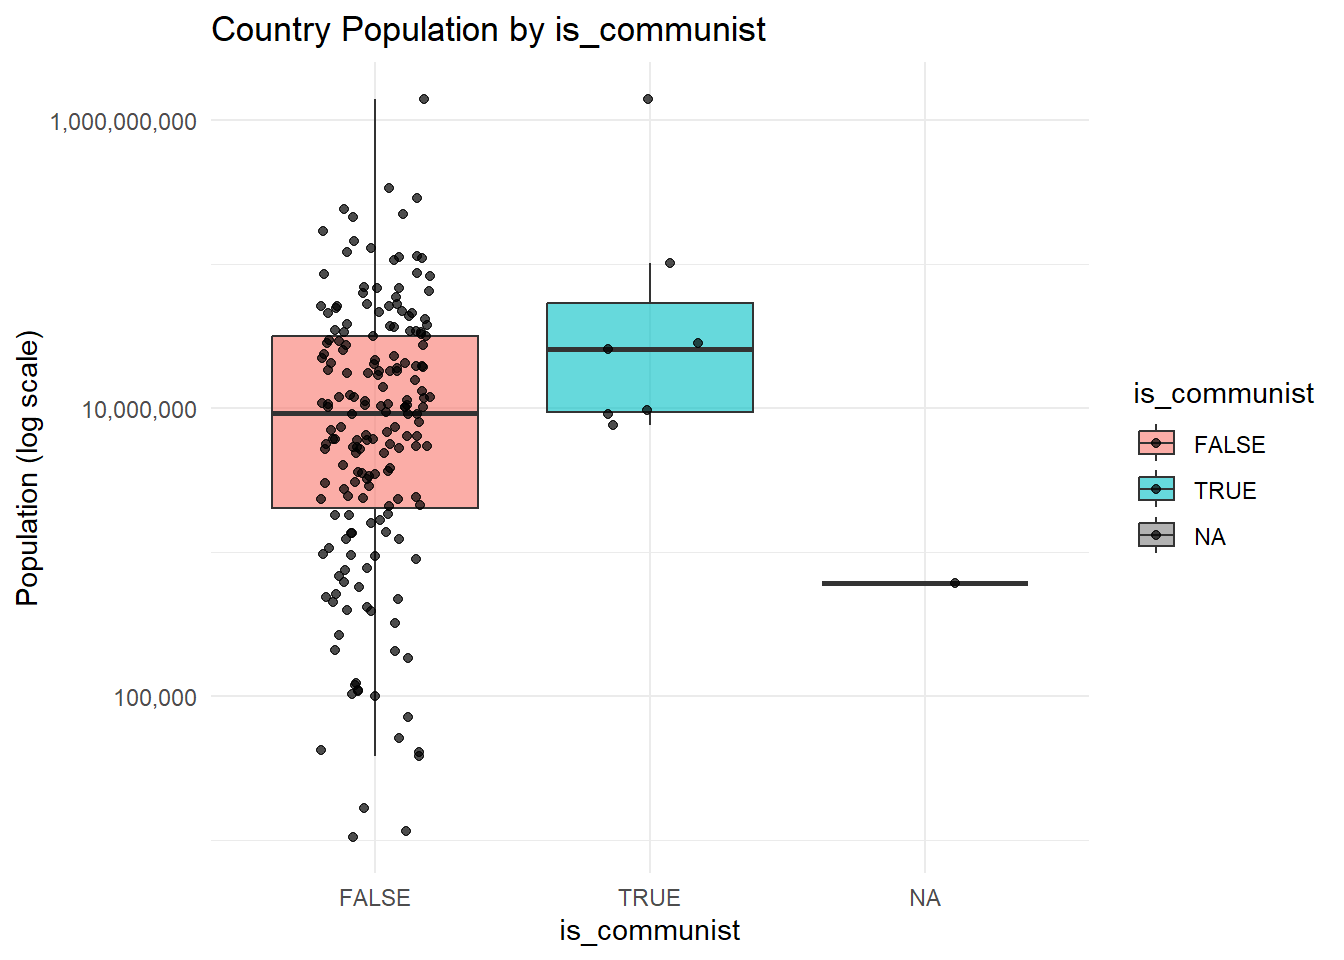
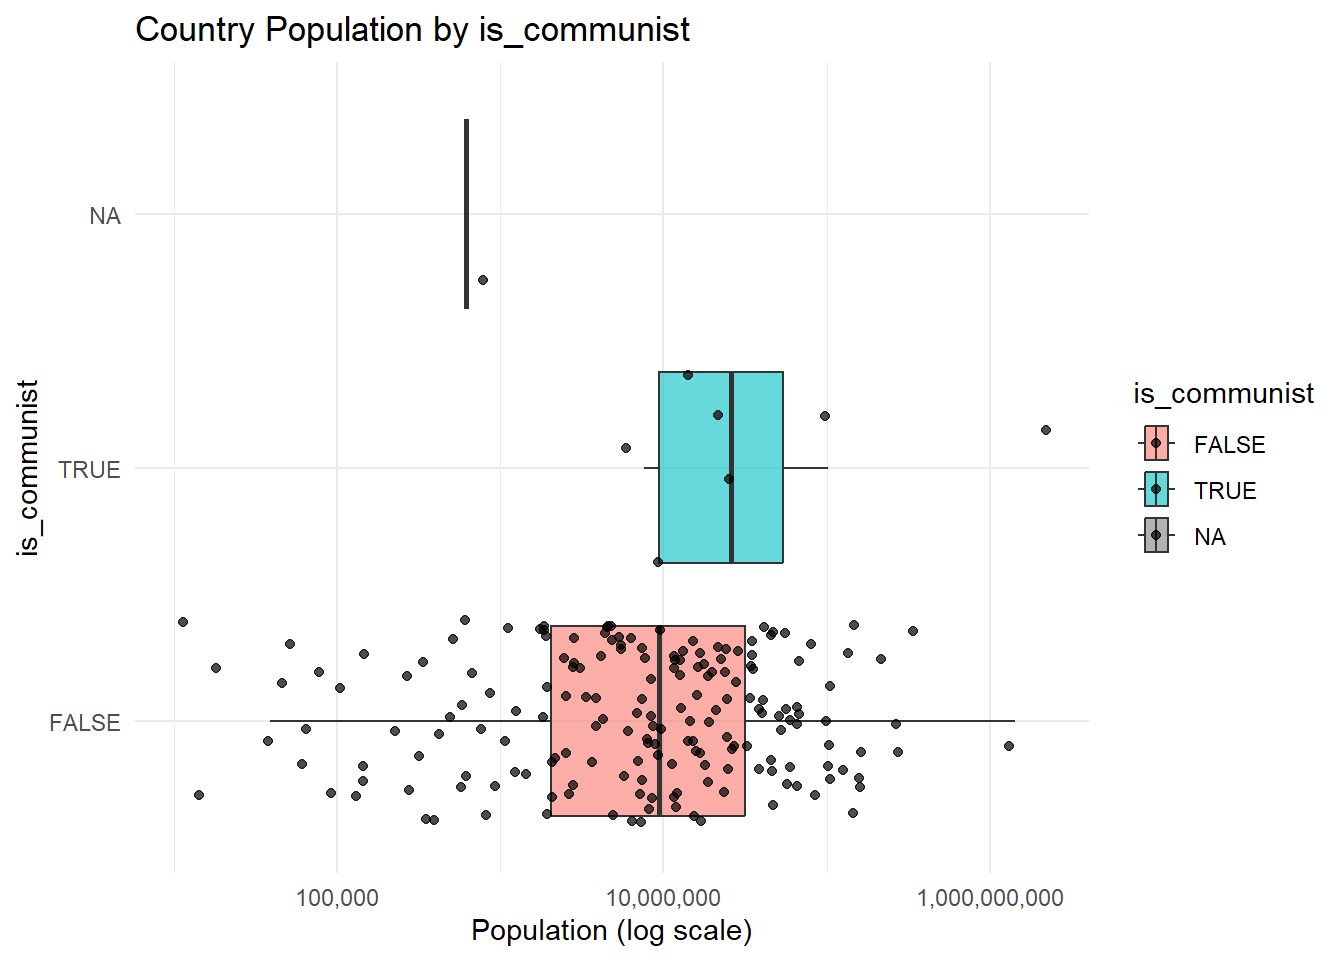
Checkpoint 3 Final Commit

diff --git a/Project1_Checkpoint3.html b/Project1_Checkpoint3.html
@@ -194,8 +194,8 @@ pre > code.sourceCode > span > a:first-child::before { text-decoration: underlin
 <p>a “meta” dataset containing all the acquired data (joined together)</p>
 <p>at least two data summaries OR visualizations incorporating the additional country-level data</p>
 </section>
-<section id="data-scraping" class="level2">
-<h2 class="anchored" data-anchor-id="data-scraping">Data Scraping</h2>
+<section id="web-scraping---population" class="level2">
+<h2 class="anchored" data-anchor-id="web-scraping---population">Web Scraping - Population</h2>
 <div class="cell">
 <div class="code-copy-outer-scaffold"><div class="sourceCode cell-code" id="cb3"><pre class="sourceCode r code-with-copy"><code class="sourceCode r"><span id="cb3-1"><a href="#cb3-1" aria-hidden="true" tabindex="-1"></a><span class="fu">library</span>(rvest)</span>
 <span id="cb3-2"><a href="#cb3-2" aria-hidden="true" tabindex="-1"></a></span>
@@ -283,14 +283,14 @@ pre > code.sourceCode > span > a:first-child::before { text-decoration: underlin
 <h1>Box-plots for the Relationship Between Categorical Variables and Population</h1>
 <div class="cell">
 <div class="code-copy-outer-scaffold"><div class="sourceCode cell-code" id="cb7"><pre class="sourceCode r code-with-copy"><code class="sourceCode r"><span id="cb7-1"><a href="#cb7-1" aria-hidden="true" tabindex="-1"></a>plot_pop_by_category <span class="ot">&lt;-</span> <span class="cf">function</span>(cat_var) {</span>
-<span id="cb7-2"><a href="#cb7-2" aria-hidden="true" tabindex="-1"></a>  <span class="fu">ggplot</span>(country_data, <span class="fu">aes</span>(<span class="at">x =</span> {{ cat_var }}, <span class="at">y =</span> Population, <span class="at">fill =</span> {{ cat_var }})) <span class="sc">+</span></span>
+<span id="cb7-2"><a href="#cb7-2" aria-hidden="true" tabindex="-1"></a>  <span class="fu">ggplot</span>(country_data, <span class="fu">aes</span>(<span class="at">y =</span> {{ cat_var }}, <span class="at">x =</span> Population, <span class="at">fill =</span> {{ cat_var }})) <span class="sc">+</span></span>
 <span id="cb7-3"><a href="#cb7-3" aria-hidden="true" tabindex="-1"></a>    <span class="fu">geom_boxplot</span>(<span class="at">outlier.shape =</span> <span class="cn">NA</span>, <span class="at">alpha =</span> <span class="fl">0.6</span>) <span class="sc">+</span></span>
 <span id="cb7-4"><a href="#cb7-4" aria-hidden="true" tabindex="-1"></a>    <span class="fu">geom_jitter</span>(<span class="at">width =</span> <span class="fl">0.2</span>, <span class="at">size =</span> <span class="fl">1.5</span>, <span class="at">alpha =</span> <span class="fl">0.7</span>) <span class="sc">+</span></span>
-<span id="cb7-5"><a href="#cb7-5" aria-hidden="true" tabindex="-1"></a>    <span class="fu">scale_y_log10</span>(<span class="at">labels =</span> scales<span class="sc">::</span>comma) <span class="sc">+</span></span>
+<span id="cb7-5"><a href="#cb7-5" aria-hidden="true" tabindex="-1"></a>    <span class="fu">scale_x_log10</span>(<span class="at">labels =</span> scales<span class="sc">::</span>comma) <span class="sc">+</span></span>
 <span id="cb7-6"><a href="#cb7-6" aria-hidden="true" tabindex="-1"></a>    <span class="fu">labs</span>(</span>
 <span id="cb7-7"><a href="#cb7-7" aria-hidden="true" tabindex="-1"></a>      <span class="at">title =</span> <span class="fu">paste</span>(<span class="st">"Country Population by"</span>, <span class="fu">deparse</span>(<span class="fu">substitute</span>(cat_var))),</span>
-<span id="cb7-8"><a href="#cb7-8" aria-hidden="true" tabindex="-1"></a>      <span class="at">x     =</span> <span class="fu">deparse</span>(<span class="fu">substitute</span>(cat_var)),</span>
-<span id="cb7-9"><a href="#cb7-9" aria-hidden="true" tabindex="-1"></a>      <span class="at">y     =</span> <span class="st">"Population (log scale)"</span></span>
+<span id="cb7-8"><a href="#cb7-8" aria-hidden="true" tabindex="-1"></a>      <span class="at">y     =</span> <span class="fu">deparse</span>(<span class="fu">substitute</span>(cat_var)),</span>
+<span id="cb7-9"><a href="#cb7-9" aria-hidden="true" tabindex="-1"></a>      <span class="at">x     =</span> <span class="st">"Population (log scale)"</span></span>
 <span id="cb7-10"><a href="#cb7-10" aria-hidden="true" tabindex="-1"></a>    ) <span class="sc">+</span></span>
 <span id="cb7-11"><a href="#cb7-11" aria-hidden="true" tabindex="-1"></a>    <span class="fu">theme_minimal</span>()</span>
 <span id="cb7-12"><a href="#cb7-12" aria-hidden="true" tabindex="-1"></a>}</span>
@@ -328,6 +328,9 @@ pre > code.sourceCode > span > a:first-child::before { text-decoration: underlin
 </div>
 </div>
 </div>
+</section>
+<section id="summary-statistics-for-the-relationship-between-categorical-variables-and-population" class="level1">
+<h1>Summary Statistics for the Relationship Between Categorical Variables and Population</h1>
 <div class="cell">
 <div class="code-copy-outer-scaffold"><div class="sourceCode cell-code" id="cb11"><pre class="sourceCode r code-with-copy"><code class="sourceCode r"><span id="cb11-1"><a href="#cb11-1" aria-hidden="true" tabindex="-1"></a>summarize_pop_by_category <span class="ot">&lt;-</span> <span class="cf">function</span>(cat_var) {</span>
 <span id="cb11-2"><a href="#cb11-2" aria-hidden="true" tabindex="-1"></a>  country_data <span class="sc">|&gt;</span></span>
@@ -349,7 +352,7 @@ pre > code.sourceCode > span > a:first-child::before { text-decoration: underlin
 <pre><code># A tibble: 7 × 7
   regime_category             n  mean_pop median_pop     sd_pop min_pop  max_pop
   &lt;chr&gt;                   &lt;int&gt;     &lt;dbl&gt;      &lt;dbl&gt;      &lt;dbl&gt;   &lt;dbl&gt;    &lt;dbl&gt;
-1 Civilian dictatorship      48 63166945.  20093620  201671540.  623327   1.40e9
+1 Civilian dictatorship      48 63165837.  20093620  201671843.  623327   1.40e9
 2 Military dictatorship      17 28030252.  17073087   29258563.  902623   1.08e8
 3 Presidential democracy     37 47543109.  13224860   84239569.   16733   3.42e8
 4 Mixed democratic           28 12889554.   6047070.  15546428.  209607   6.91e7
@@ -362,7 +365,7 @@ pre > code.sourceCode > span > a:first-child::before { text-decoration: underlin
 <pre><code># A tibble: 3 × 7
   is_communist     n   mean_pop median_pop     sd_pop min_pop    max_pop
   &lt;lgl&gt;        &lt;int&gt;      &lt;dbl&gt;      &lt;dbl&gt;      &lt;dbl&gt;   &lt;dbl&gt;      &lt;dbl&gt;
-1 TRUE             7 226880184.  25950000  520509683. 7647000 1404890000
+1 TRUE             7 226872584.  25950000  520513393. 7647000 1404890000
 2 FALSE          184  34876209.   9354056. 114008057.   10643 1417492000
 3 NA               1    616500     616500         NA   616500     616500</code></pre>
 </div>
@@ -371,7 +374,7 @@ pre > code.sourceCode > span > a:first-child::before { text-decoration: underlin
 <pre><code># A tibble: 3 × 7
   is_democracy     n  mean_pop median_pop     sd_pop min_pop    max_pop
   &lt;lgl&gt;        &lt;int&gt;     &lt;dbl&gt;      &lt;dbl&gt;      &lt;dbl&gt;   &lt;dbl&gt;      &lt;dbl&gt;
-1 FALSE           76 47642555.  14945934. 161681457.  205557 1404890000
+1 FALSE           76 47641855.  14945934. 161681626.  205557 1404890000
 2 TRUE           115 38126518.   5656779  141671614.   10643 1417492000
 3 NA               1   616500     616500         NA   616500     616500</code></pre>
 </div>
@@ -380,13 +383,13 @@ pre > code.sourceCode > span > a:first-child::before { text-decoration: underlin
 <pre><code># A tibble: 3 × 7
   is_monarchy     n  mean_pop median_pop     sd_pop min_pop    max_pop
   &lt;lgl&gt;       &lt;int&gt;     &lt;dbl&gt;      &lt;dbl&gt;      &lt;dbl&gt;   &lt;dbl&gt;      &lt;dbl&gt;
-1 FALSE         151 48925578.   10372335 167181359.   10643 1417492000
+1 FALSE         151 48925225.   10372335 167181444.   10643 1417492000
 2 TRUE           40 15440539.    5111627  25262174.   38857  122850000
 3 NA              1   616500      616500        NA   616500     616500</code></pre>
 </div>
 </div>
-<section id="api" class="level2">
-<h2 class="anchored" data-anchor-id="api">API</h2>
+<section id="api---gdp-in-usd" class="level2">
+<h2 class="anchored" data-anchor-id="api---gdp-in-usd">API - GDP in USD</h2>
 <div class="cell">
 <div class="code-copy-outer-scaffold"><div class="sourceCode cell-code" id="cb19"><pre class="sourceCode r code-with-copy"><code class="sourceCode r"><span id="cb19-1"><a href="#cb19-1" aria-hidden="true" tabindex="-1"></a><span class="co"># Obtain 2020 GDP in USD for inputted country</span></span>
 <span id="cb19-2"><a href="#cb19-2" aria-hidden="true" tabindex="-1"></a>get_gdp_2020 <span class="ot">&lt;-</span> <span class="cf">function</span>(country, <span class="at">key =</span> my_key)</span>
@@ -407,6 +410,10 @@ pre > code.sourceCode > span > a:first-child::before { text-decoration: underlin
 <span id="cb19-17"><a href="#cb19-17" aria-hidden="true" tabindex="-1"></a>  }</span>
 <span id="cb19-18"><a href="#cb19-18" aria-hidden="true" tabindex="-1"></a>}</span></code></pre></div><button title="Copy to Clipboard" class="code-copy-button"><i class="bi"></i></button></div>
 </div>
+</section>
+</section>
+<section id="store-country-gdps-in-usd" class="level1">
+<h1>Store Country GDPs in USD</h1>
 <div class="cell">
 <div class="code-copy-outer-scaffold"><div class="sourceCode cell-code" id="cb20"><pre class="sourceCode r code-with-copy"><code class="sourceCode r"><span id="cb20-1"><a href="#cb20-1" aria-hidden="true" tabindex="-1"></a><span class="co"># We used a personal API key stored as "my_key"</span></span>
 <span id="cb20-2"><a href="#cb20-2" aria-hidden="true" tabindex="-1"></a></span>
@@ -419,6 +426,9 @@ pre > code.sourceCode > span > a:first-child::before { text-decoration: underlin
 <span id="cb20-9"><a href="#cb20-9" aria-hidden="true" tabindex="-1"></a><span class="co"># Save tibble as a csv</span></span>
 <span id="cb20-10"><a href="#cb20-10" aria-hidden="true" tabindex="-1"></a><span class="fu">write.csv</span>(country_gdps, <span class="at">file =</span> <span class="st">"country_gdps.csv"</span>)</span></code></pre></div><button title="Copy to Clipboard" class="code-copy-button"><i class="bi"></i></button></div>
 </div>
+</section>
+<section id="create-countries-meta-dataset-for-2020" class="level1">
+<h1>Create Countries Meta Dataset for 2020</h1>
 <div class="cell">
 <div class="code-copy-outer-scaffold"><div class="sourceCode cell-code" id="cb21"><pre class="sourceCode r code-with-copy"><code class="sourceCode r"><span id="cb21-1"><a href="#cb21-1" aria-hidden="true" tabindex="-1"></a><span class="co"># Read in csv GDP data</span></span>
 <span id="cb21-2"><a href="#cb21-2" aria-hidden="true" tabindex="-1"></a>gdp_data <span class="ot">&lt;-</span> <span class="fu">read.csv</span>(<span class="st">"country_gdps.csv"</span>)</span>
@@ -455,6 +465,115 @@ pre > code.sourceCode > span > a:first-child::before { text-decoration: underlin
 </div>
 </div>
 </section>
+<section id="box-plots-for-the-relationship-between-categorical-variables-and-gdp" class="level1">
+<h1>Box-plots for the Relationship Between Categorical Variables and GDP</h1>
+<div class="cell">
+<div class="code-copy-outer-scaffold"><div class="sourceCode cell-code" id="cb23"><pre class="sourceCode r code-with-copy"><code class="sourceCode r"><span id="cb23-1"><a href="#cb23-1" aria-hidden="true" tabindex="-1"></a>plot_gdp_by_category <span class="ot">&lt;-</span> <span class="cf">function</span>(cat_var) {</span>
+<span id="cb23-2"><a href="#cb23-2" aria-hidden="true" tabindex="-1"></a>  <span class="fu">ggplot</span>(country_meta_data, <span class="fu">aes</span>(<span class="at">y =</span> {{ cat_var }}, <span class="at">x =</span> GDP, <span class="at">fill =</span> {{ cat_var }})) <span class="sc">+</span></span>
+<span id="cb23-3"><a href="#cb23-3" aria-hidden="true" tabindex="-1"></a>    <span class="fu">geom_boxplot</span>(<span class="at">outlier.shape =</span> <span class="cn">NA</span>, <span class="at">alpha =</span> <span class="fl">0.6</span>) <span class="sc">+</span></span>
+<span id="cb23-4"><a href="#cb23-4" aria-hidden="true" tabindex="-1"></a>    <span class="fu">geom_jitter</span>(<span class="at">width =</span> <span class="fl">0.2</span>, <span class="at">size =</span> <span class="fl">1.5</span>, <span class="at">alpha =</span> <span class="fl">0.7</span>) <span class="sc">+</span></span>
+<span id="cb23-5"><a href="#cb23-5" aria-hidden="true" tabindex="-1"></a>    <span class="fu">scale_x_log10</span>(<span class="at">labels =</span> scales<span class="sc">::</span>comma) <span class="sc">+</span></span>
+<span id="cb23-6"><a href="#cb23-6" aria-hidden="true" tabindex="-1"></a>    <span class="fu">labs</span>(</span>
+<span id="cb23-7"><a href="#cb23-7" aria-hidden="true" tabindex="-1"></a>      <span class="at">title =</span> <span class="fu">paste</span>(<span class="st">"Country GDP in USD by"</span>, <span class="fu">deparse</span>(<span class="fu">substitute</span>(cat_var))),</span>
+<span id="cb23-8"><a href="#cb23-8" aria-hidden="true" tabindex="-1"></a>      <span class="at">y     =</span> <span class="fu">deparse</span>(<span class="fu">substitute</span>(cat_var)),</span>
+<span id="cb23-9"><a href="#cb23-9" aria-hidden="true" tabindex="-1"></a>      <span class="at">x     =</span> <span class="st">"GDP (log scale)"</span></span>
+<span id="cb23-10"><a href="#cb23-10" aria-hidden="true" tabindex="-1"></a>    ) <span class="sc">+</span></span>
+<span id="cb23-11"><a href="#cb23-11" aria-hidden="true" tabindex="-1"></a>    <span class="fu">theme_minimal</span>()</span>
+<span id="cb23-12"><a href="#cb23-12" aria-hidden="true" tabindex="-1"></a>}</span>
+<span id="cb23-13"><a href="#cb23-13" aria-hidden="true" tabindex="-1"></a></span>
+<span id="cb23-14"><a href="#cb23-14" aria-hidden="true" tabindex="-1"></a><span class="fu">plot_gdp_by_category</span>(regime_category)</span></code></pre></div><button title="Copy to Clipboard" class="code-copy-button"><i class="bi"></i></button></div>
+<div class="cell-output-display">
+<div>
+<figure class="figure">
+<p><img src="Project1_Checkpoint3_files/figure-html/unnamed-chunk-8-1.png" class="img-fluid figure-img" width="672"></p>
+</figure>
+</div>
+</div>
+<div class="code-copy-outer-scaffold"><div class="sourceCode cell-code" id="cb24"><pre class="sourceCode r code-with-copy"><code class="sourceCode r"><span id="cb24-1"><a href="#cb24-1" aria-hidden="true" tabindex="-1"></a><span class="fu">plot_gdp_by_category</span>(is_communist)</span></code></pre></div><button title="Copy to Clipboard" class="code-copy-button"><i class="bi"></i></button></div>
+<div class="cell-output-display">
+<div>
+<figure class="figure">
+<p><img src="Project1_Checkpoint3_files/figure-html/unnamed-chunk-8-2.png" class="img-fluid figure-img" width="672"></p>
+</figure>
+</div>
+</div>
+<div class="code-copy-outer-scaffold"><div class="sourceCode cell-code" id="cb25"><pre class="sourceCode r code-with-copy"><code class="sourceCode r"><span id="cb25-1"><a href="#cb25-1" aria-hidden="true" tabindex="-1"></a><span class="fu">plot_gdp_by_category</span>(is_democracy)</span></code></pre></div><button title="Copy to Clipboard" class="code-copy-button"><i class="bi"></i></button></div>
+<div class="cell-output-display">
+<div>
+<figure class="figure">
+<p><img src="Project1_Checkpoint3_files/figure-html/unnamed-chunk-8-3.png" class="img-fluid figure-img" width="672"></p>
+</figure>
+</div>
+</div>
+<div class="code-copy-outer-scaffold"><div class="sourceCode cell-code" id="cb26"><pre class="sourceCode r code-with-copy"><code class="sourceCode r"><span id="cb26-1"><a href="#cb26-1" aria-hidden="true" tabindex="-1"></a><span class="fu">plot_gdp_by_category</span>(is_monarchy)</span></code></pre></div><button title="Copy to Clipboard" class="code-copy-button"><i class="bi"></i></button></div>
+<div class="cell-output-display">
+<div>
+<figure class="figure">
+<p><img src="Project1_Checkpoint3_files/figure-html/unnamed-chunk-8-4.png" class="img-fluid figure-img" width="672"></p>
+</figure>
+</div>
+</div>
+</div>
+</section>
+<section id="summary-statistics-for-the-relationship-between-categorical-variables-and-gdp" class="level1">
+<h1>Summary Statistics for the Relationship Between Categorical Variables and GDP</h1>
+<div class="cell">
+<div class="code-copy-outer-scaffold"><div class="sourceCode cell-code" id="cb27"><pre class="sourceCode r code-with-copy"><code class="sourceCode r"><span id="cb27-1"><a href="#cb27-1" aria-hidden="true" tabindex="-1"></a>summarize_gdp_by_category <span class="ot">&lt;-</span> <span class="cf">function</span>(cat_var) {</span>
+<span id="cb27-2"><a href="#cb27-2" aria-hidden="true" tabindex="-1"></a>  country_meta_data <span class="sc">|&gt;</span></span>
+<span id="cb27-3"><a href="#cb27-3" aria-hidden="true" tabindex="-1"></a>    <span class="fu">group_by</span>({{ cat_var }}) <span class="sc">|&gt;</span></span>
+<span id="cb27-4"><a href="#cb27-4" aria-hidden="true" tabindex="-1"></a>    <span class="fu">summarize</span>(</span>
+<span id="cb27-5"><a href="#cb27-5" aria-hidden="true" tabindex="-1"></a>      <span class="at">n          =</span> <span class="fu">n</span>(),</span>
+<span id="cb27-6"><a href="#cb27-6" aria-hidden="true" tabindex="-1"></a>      <span class="at">mean_gdp   =</span> <span class="fu">mean</span>(GDP, <span class="at">na.rm =</span> <span class="cn">TRUE</span>),</span>
+<span id="cb27-7"><a href="#cb27-7" aria-hidden="true" tabindex="-1"></a>      <span class="at">median_gdp =</span> <span class="fu">median</span>(GDP, <span class="at">na.rm =</span> <span class="cn">TRUE</span>),</span>
+<span id="cb27-8"><a href="#cb27-8" aria-hidden="true" tabindex="-1"></a>      <span class="at">sd_gdp     =</span> <span class="fu">sd</span>(GDP, <span class="at">na.rm =</span> <span class="cn">TRUE</span>),</span>
+<span id="cb27-9"><a href="#cb27-9" aria-hidden="true" tabindex="-1"></a>      <span class="at">min_gdp    =</span> <span class="fu">min</span>(GDP, <span class="at">na.rm =</span> <span class="cn">TRUE</span>),</span>
+<span id="cb27-10"><a href="#cb27-10" aria-hidden="true" tabindex="-1"></a>      <span class="at">max_gdp    =</span> <span class="fu">max</span>(GDP, <span class="at">na.rm =</span> <span class="cn">TRUE</span>),</span>
+<span id="cb27-11"><a href="#cb27-11" aria-hidden="true" tabindex="-1"></a>      <span class="at">.groups    =</span> <span class="st">"drop"</span></span>
+<span id="cb27-12"><a href="#cb27-12" aria-hidden="true" tabindex="-1"></a>    ) <span class="sc">|&gt;</span></span>
+<span id="cb27-13"><a href="#cb27-13" aria-hidden="true" tabindex="-1"></a>    <span class="fu">arrange</span>(<span class="fu">desc</span>(median_gdp))</span>
+<span id="cb27-14"><a href="#cb27-14" aria-hidden="true" tabindex="-1"></a>}</span>
+<span id="cb27-15"><a href="#cb27-15" aria-hidden="true" tabindex="-1"></a></span>
+<span id="cb27-16"><a href="#cb27-16" aria-hidden="true" tabindex="-1"></a><span class="fu">summarize_gdp_by_category</span>(regime_category)</span></code></pre></div><button title="Copy to Clipboard" class="code-copy-button"><i class="bi"></i></button></div>
+<div class="cell-output cell-output-stdout">
+<pre><code># A tibble: 7 × 7
+  regime_category             n mean_gdp median_gdp sd_gdp min_gdp  max_gdp
+  &lt;chr&gt;                   &lt;int&gt;    &lt;dbl&gt;      &lt;dbl&gt;  &lt;dbl&gt;   &lt;dbl&gt;    &lt;dbl&gt;
+1 Royal dictatorship         11   148.        75.9    218.   0.869   734.  
+2 Mixed democratic           28   234.        55.1    510.   0.476  2646.  
+3 Presidential democracy     39   776.        53.7   3408.   0.259 21354.  
+4 Civilian dictatorship      48   446.        43.2   2187.   1.22  14863.  
+5 Parliamentary democracy    50   522.        22.3   1076.   0.053  5054.  
+6 Military dictatorship      17    73.2       11.5    152.   2.39    501.  
+7 &lt;NA&gt;                        1     2.91       2.91    NA    2.91      2.91</code></pre>
+</div>
+<div class="code-copy-outer-scaffold"><div class="sourceCode cell-code" id="cb29"><pre class="sourceCode r code-with-copy"><code class="sourceCode r"><span id="cb29-1"><a href="#cb29-1" aria-hidden="true" tabindex="-1"></a><span class="fu">summarize_gdp_by_category</span>(is_communist)</span></code></pre></div><button title="Copy to Clipboard" class="code-copy-button"><i class="bi"></i></button></div>
+<div class="cell-output cell-output-stdout">
+<pre><code># A tibble: 3 × 7
+  is_communist     n mean_gdp median_gdp sd_gdp min_gdp  max_gdp
+  &lt;lgl&gt;        &lt;int&gt;    &lt;dbl&gt;      &lt;dbl&gt;  &lt;dbl&gt;   &lt;dbl&gt;    &lt;dbl&gt;
+1 TRUE             7  3066.        61.3   6596.  18.5   14863.  
+2 FALSE          186   383.        35.3   1693.   0.053 21354.  
+3 NA               1     2.91       2.91    NA    2.91      2.91</code></pre>
+</div>
+<div class="code-copy-outer-scaffold"><div class="sourceCode cell-code" id="cb31"><pre class="sourceCode r code-with-copy"><code class="sourceCode r"><span id="cb31-1"><a href="#cb31-1" aria-hidden="true" tabindex="-1"></a><span class="fu">summarize_gdp_by_category</span>(is_democracy)</span></code></pre></div><button title="Copy to Clipboard" class="code-copy-button"><i class="bi"></i></button></div>
+<div class="cell-output cell-output-stdout">
+<pre><code># A tibble: 3 × 7
+  is_democracy     n mean_gdp median_gdp sd_gdp min_gdp  max_gdp
+  &lt;lgl&gt;        &lt;int&gt;    &lt;dbl&gt;      &lt;dbl&gt;  &lt;dbl&gt;   &lt;dbl&gt;    &lt;dbl&gt;
+1 FALSE           76   323.        37.4   1752.   0.869 14863.  
+2 TRUE           117   538.        34.4   2110.   0.053 21354.  
+3 NA               1     2.91       2.91    NA    2.91      2.91</code></pre>
+</div>
+<div class="code-copy-outer-scaffold"><div class="sourceCode cell-code" id="cb33"><pre class="sourceCode r code-with-copy"><code class="sourceCode r"><span id="cb33-1"><a href="#cb33-1" aria-hidden="true" tabindex="-1"></a><span class="fu">summarize_gdp_by_category</span>(is_monarchy)</span></code></pre></div><button title="Copy to Clipboard" class="code-copy-button"><i class="bi"></i></button></div>
+<div class="cell-output cell-output-stdout">
+<pre><code># A tibble: 3 × 7
+  is_monarchy     n mean_gdp median_gdp sd_gdp min_gdp  max_gdp
+  &lt;lgl&gt;       &lt;int&gt;    &lt;dbl&gt;      &lt;dbl&gt;  &lt;dbl&gt;   &lt;dbl&gt;    &lt;dbl&gt;
+1 TRUE           40   464.        74.8    955.   0.445  5054.  
+2 FALSE         153   453.        34.4   2165.   0.053 21354.  
+3 NA              1     2.91       2.91    NA    2.91      2.91</code></pre>
+</div>
+</div>
 </section>
 
 </main>
